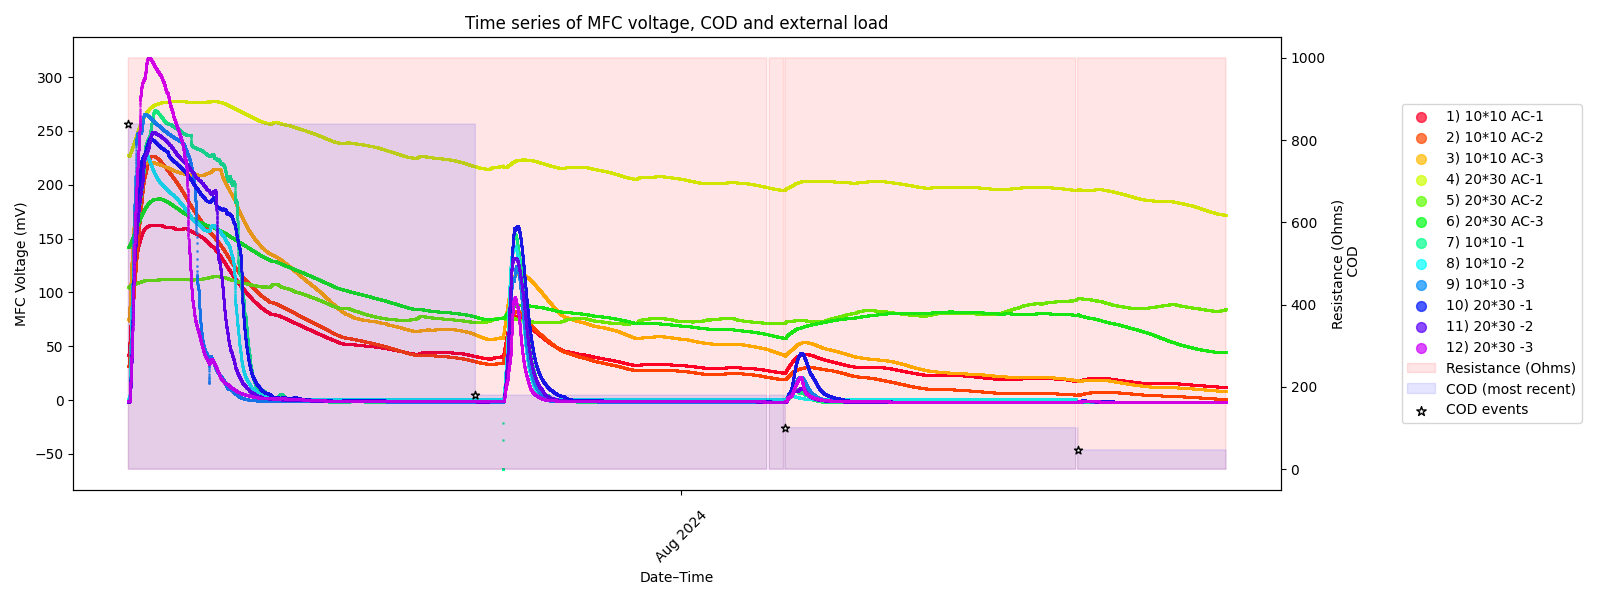
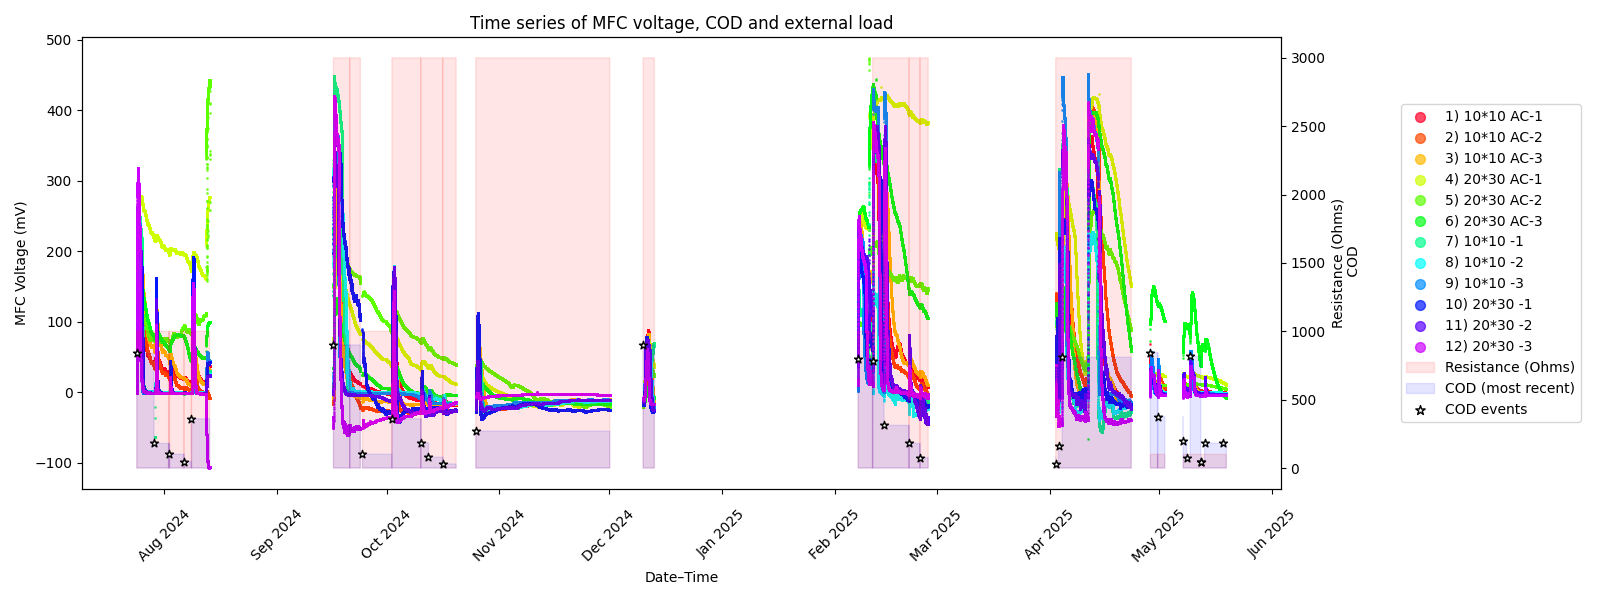
resistance value changed for MFC 6 for a section of the data

diff --git a/read_excel_data_funcs.py b/read_excel_data_funcs.py
@@ -54,8 +54,8 @@ def import_excel_data(file_path):
     print('N sheets', len(xls.sheet_names))
 
     # Sheets to import
-    for sheet in xls.sheet_names[5:10]: 
-    # for sheet in xls.sheet_names:
+    # for sheet in xls.sheet_names[7:10]: 
+    for sheet in xls.sheet_names:
 
         # skip first sheet
         if sheet.lower() == "info":
@@ -279,8 +279,22 @@ def separate_mfc_data(all_data, mfc_cols):
         keep_cols = ["datetime", "Voltage", "Resistance", "COD" + str(n), "COD_filled_" + str(n), "COD_event_" + str(n)]
         df = df[keep_cols]
 
-        print('column name ', col)
-        print(df.head())
+        
+        # Change resistance value applied to MFC 6 from 2025-04-28 as it is different from other MFCs
+        if mfc_name.startswith("6"):
+            print("MFC 6")
+
+            # Check resistance value before change
+            print(df.loc[df['datetime'] >= '2025-04-28'].head())
+
+            df.loc[df['datetime'] >= '2025-04-28', 'Resistance'] = 1
+
+            # Check resistance value after change
+            print(df.loc[df['datetime'] >= '2025-04-28'].head())
+
+        # Check output looks as it should
+        # print('column name ', col)
+        # print(df.head(10))
 
         # Store under the mfc channel name
         sensor_dict[mfc_name] = df
